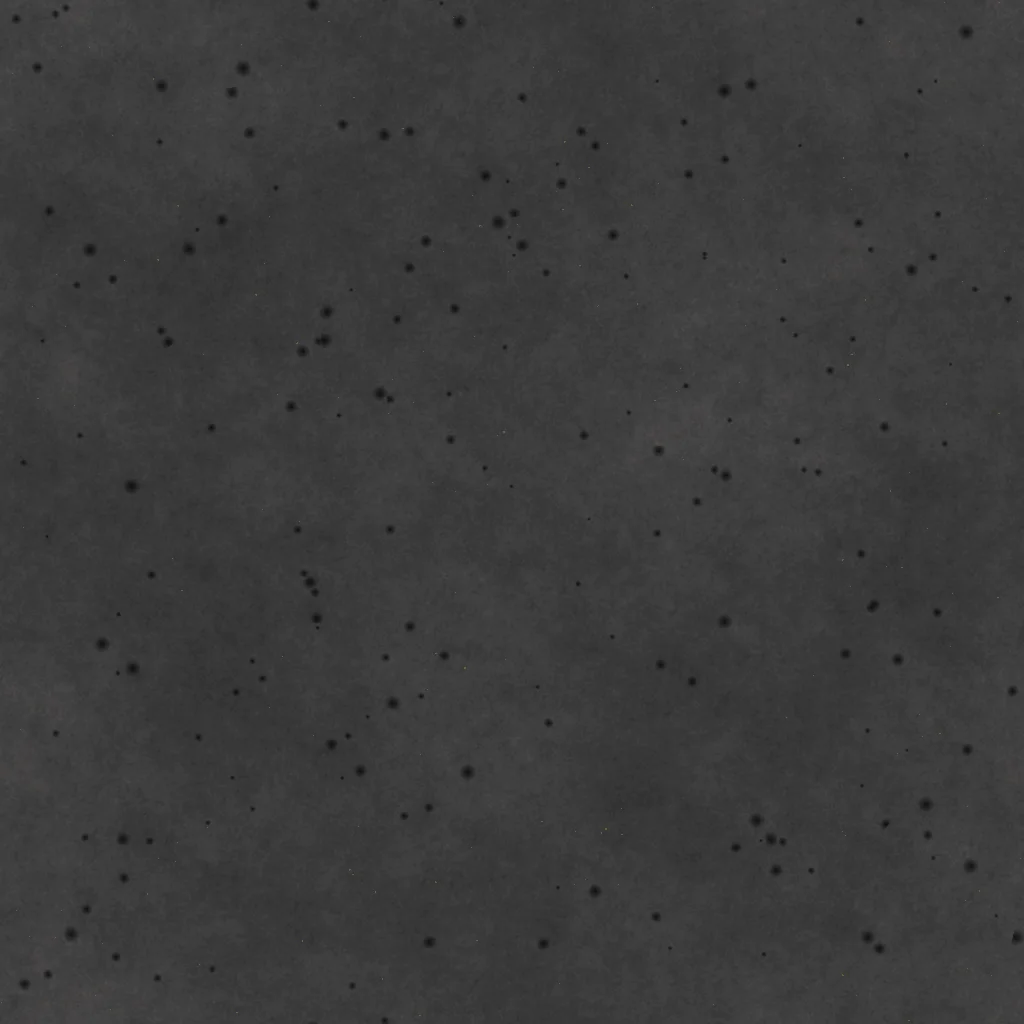
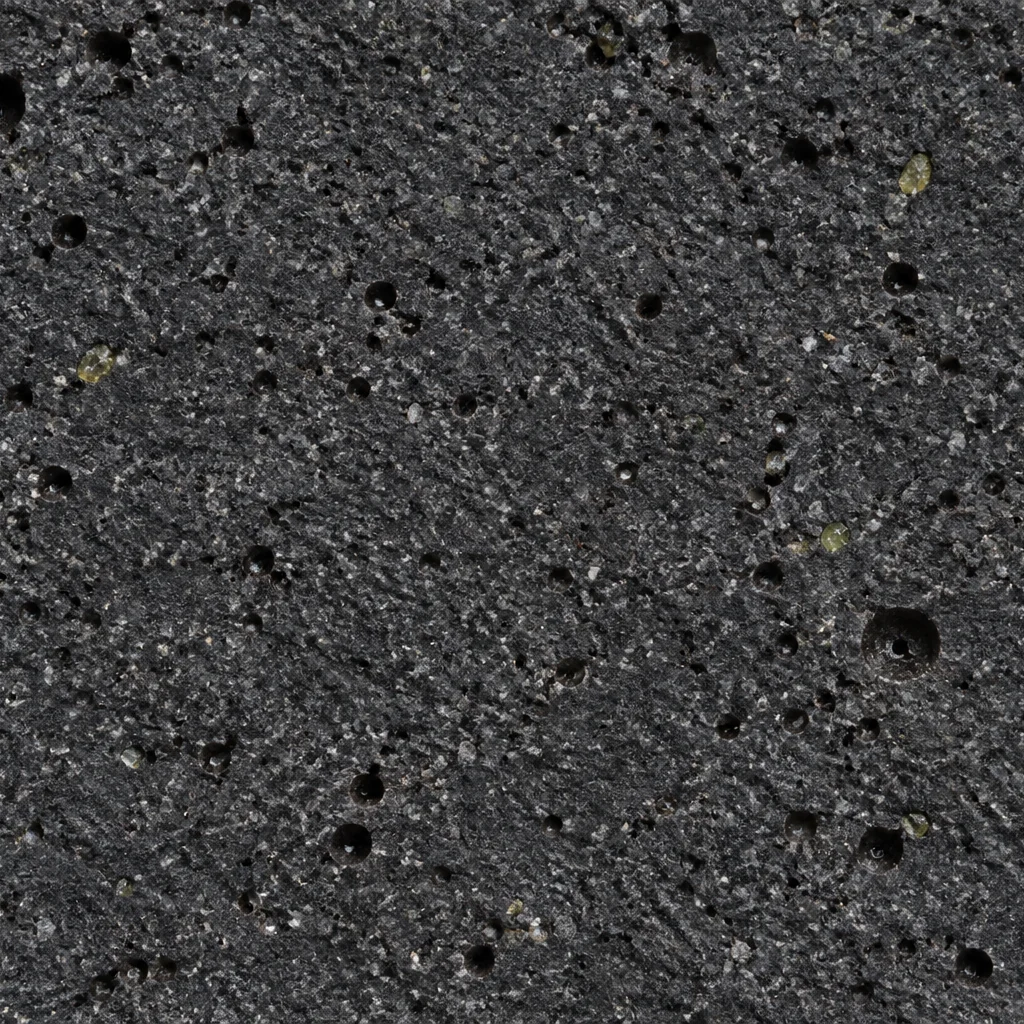
Terra v1.4.1: granito, basalto e obsidiana com texturas a partir de imagens (foto-para-textura.py: recorte, correção de luz, atenuação de reflexos, relevo)
Claude-Session: https://claude.ai/code/session_018tvpZFtV9LVsjJ7r2h5Z8G

diff --git a/apps/terra/terra-data.js b/apps/terra/terra-data.js
@@ -2,7 +2,7 @@
    Conteúdo: tema Camadas da Terra (Contexto, Explorar, Monte as camadas, Viagem ao centro, Desafio).
    Temas: Camadas da Terra, Placas tectônicas, Vulcões e Rochas e minerais. Textos no tom falado das narrações (chaves = nomes dos MP3 em audio/). */
 (function(){'use strict';
-const D={version:'1.4.0'};
+const D={version:'1.4.1'};
 D.temas=[
  {id:'camadas',nome:'Camadas da Terra',estuda:'Do que a Terra é feita por dentro.',exemplos:'Crosta, manto, núcleo externo e núcleo interno',modulo:'cam',atividades:['contexto','explorar','montar','viagem'],questoes:['liquida','kola','manto','magnetico','sismicas','interno','oceanica','temperatura']},
  {id:'placas',nome:'Placas tectônicas',estuda:'Por que a crosta se mexe, treme e se quebra.',exemplos:'Placas, limites, terremotos, vulcões e a deriva dos continentes',modulo:'pla',atividades:['placContexto','placasExp','limites','volta'],questoes:['placasMovem','andes','atlantico','sanandreas','brasil','pangeia']},
@@ -96,8 +96,8 @@ D.rocContext=[
  {name:'O ciclo das rochas',text:'E nenhuma rocha fica igual para sempre. O magma esfria e vira rocha ígnea; a chuva e o vento quebram a rocha em grãos, que se juntam e viram rocha sedimentar; o calor e a pressão transformam qualquer rocha em metamórfica; e, lá no fundo, tudo pode derreter e virar magma de novo. É o ciclo das rochas, que leva milhões de anos para dar uma volta.'}
 ];
 /* texturas das amostras (assets/rocha-<chave>.webp + -normal.webp), geradas por tools/gerar-texturas-rochas.py;
-   uma foto real com o mesmo nome substitui a textura sem mexer no código. rx/ry = repetições, relevo = força do normal map, reflexo = brilho do ambiente */
-D.ROCHAS_FOTO={granito:{roughness:.62,relevo:.9,reflexo:.55},basalto:{roughness:.85,relevo:1.1,reflexo:.3},obsidiana:{roughness:.06,relevo:.5,reflexo:1.4,metalness:.1},pomes:{roughness:1,relevo:1.4,reflexo:.15},arenito:{roughness:.95,relevo:1,reflexo:.2},calcario:{roughness:.85,relevo:1,reflexo:.3},carvao:{roughness:.4,relevo:.9,reflexo:.9},marmore:{roughness:.3,relevo:.5,reflexo:.8},ardosia:{roughness:.6,relevo:.8,reflexo:.5,rx:1.2,ry:1.2},quartzo:{roughness:.08,relevo:.4,reflexo:1.3,rx:1,ry:1},feldspato:{roughness:.42,relevo:.7,reflexo:.6,rx:1,ry:1},mica:{roughness:.18,relevo:.5,reflexo:1.2,metalness:.35,rx:1,ry:1}};
+   granito, basalto e obsidiana vêm de imagens (tools/fontes-texturas/terra) tratadas por tools/foto-para-textura.py; uma foto com o mesmo nome substitui a textura sem mexer no código. rx/ry = repetições, relevo = força do normal map, reflexo = brilho do ambiente */
+D.ROCHAS_FOTO={granito:{roughness:.62,relevo:.9,reflexo:.55},basalto:{roughness:.85,relevo:1.1,reflexo:.3},obsidiana:{roughness:.06,relevo:.6,reflexo:.9,metalness:.1},pomes:{roughness:1,relevo:1.4,reflexo:.15},arenito:{roughness:.95,relevo:1,reflexo:.2},calcario:{roughness:.85,relevo:1,reflexo:.3},carvao:{roughness:.4,relevo:.9,reflexo:.9},marmore:{roughness:.3,relevo:.5,reflexo:.8},ardosia:{roughness:.6,relevo:.8,reflexo:.5,rx:1.2,ry:1.2},quartzo:{roughness:.08,relevo:.4,reflexo:1.3,rx:1,ry:1},feldspato:{roughness:.42,relevo:.7,reflexo:.6,rx:1,ry:1},mica:{roughness:.18,relevo:.5,reflexo:1.2,metalness:.35,rx:1,ry:1}};
 D.CICLO={
  estados:{
   magma:{nome:'Magma',cor:'#ff7a20',text:'Rocha derretida, a mais de 700 graus, dentro da Terra. Daqui tudo começa.',audio:'roc-ciclo-magma'},

diff --git a/apps/terra/index.html b/apps/terra/index.html
@@ -4,13 +4,13 @@
 <meta charset="utf-8"><meta name="viewport" content="width=device-width,initial-scale=1,viewport-fit=cover">
 <meta name="theme-color" content="#08192c"><meta name="description" content="Terra por Dentro: camadas da Terra (crosta, manto, núcleo externo e interno), a Terra aberta ao meio, montagem das camadas e uma viagem em primeira pessoa até o centro do planeta. Modelos procedurais, narração em português, 3D e VR.">
 <title>Terra por Dentro · Laboratório de aprendizagem | Portal do Educador</title>
-<link rel="icon" href="assets/logo.png"><link rel="stylesheet" href="terra-lab.css?v=1.4.0"><link rel="stylesheet" href="terra-portal.css?v=1.4.0">
+<link rel="icon" href="assets/logo.png"><link rel="stylesheet" href="terra-lab.css?v=1.4.1"><link rel="stylesheet" href="terra-portal.css?v=1.4.1">
 <script defer src="vendor/three.r128.min.js"></script>
-<script defer src="terra-data.js?v=1.4.0"></script>
-<script defer src="terra-models.js?v=1.4.0"></script>
-<script defer src="terra-audio.js?v=1.4.0"></script>
-<script defer src="terra-app.js?v=1.4.0"></script>
-<script defer src="terra-portal.js?v=1.4.0"></script>
+<script defer src="terra-data.js?v=1.4.1"></script>
+<script defer src="terra-models.js?v=1.4.1"></script>
+<script defer src="terra-audio.js?v=1.4.1"></script>
+<script defer src="terra-app.js?v=1.4.1"></script>
+<script defer src="terra-portal.js?v=1.4.1"></script>
 </head>
 <body>
 <div id="lab">
@@ -63,5 +63,5 @@
 <dialog id="summaryDialog"><div class="dialog-head"><h2>Resumo da experiência</h2><button id="closeSummary" data-action="closeSummary" class="icon" aria-label="Fechar resumo">✕</button></div><div id="summaryContent"></div><details><summary>Exportar registros brutos</summary><div class="button-row"><button id="downloadJSON" data-action="downloadJSON">Exportar JSON</button><button id="downloadCSV" data-action="downloadCSV">Exportar CSV</button></div></details><p class="fine">Registros desta aba; a identificação do aluno ou grupo é opcional e fica apenas neste dispositivo. O resumo descreve ações e tentativas; não é um diagnóstico de aprendizagem.</p></dialog>
 <dialog id="sourcesDialog"><form method="dialog"><div class="dialog-head"><h2>Fontes e limites</h2><button class="icon" aria-label="Fechar fontes">✕</button></div></form><div id="sourcesContent"></div></dialog>
 <script>window.addEventListener('error',function(e){console.error('Corpo Humano:',e.message);});</script>
-<script defer src="terra-relatorio.js?v=1.4.0"></script>
+<script defer src="terra-relatorio.js?v=1.4.1"></script>
 </body></html>

diff --git a/index.html b/index.html
@@ -488,7 +488,7 @@ document.addEventListener('webkitfullscreenchange',function(){
    O app fica pré-carregado num iframe invisível (mesma origem). O clique aqui conta como gesto
    do usuário para o iframe, então a sessão WebXR abre na hora, sem segundo toque. */
 /* BUILD muda a cada publicação: força o navegador do óculos a buscar o index.html novo dos apps (o GitHub Pages ignora a query) */
-const BUILD='20261013m';
+const BUILD='20261013n';
 const appFrames={};
 /* os links dos cartões também levam a versão, para abrir direto sem cache antigo */
 document.querySelectorAll('.card-actions a[href^="apps/"]').forEach(a=>{const u=new URL(a.getAttribute('href'),location.href);u.searchParams.set('v',BUILD);a.setAttribute('href',u.pathname+u.search);});

diff --git a/apps/terra/sw.js b/apps/terra/sw.js
@@ -2,7 +2,7 @@
    Objetivo: a aplicação funcionar sem internet depois da primeira abertura (rede de escola oscila; Chromebook, lousa e Quest).
    Duas caches: a "casca" (html, css, js, three.js) muda a cada versão; a "pesada" (modelos .glb e áudios .mp3) é persistente e só
    rebaixa os arquivos cujo hash mudou no precache.json. Pedidos com Range (trilha de fundo) recebem 206 a partir do arquivo em cache. */
-const VERSAO='1.4.0-c3d8de';
+const VERSAO='1.4.1-4aa6e5';
 const CASCA='terra-casca-'+VERSAO,PESADA='terra-pesada-v1',META='terra-meta-v1';
 const ESCOPO=new URL(self.registration.scope).pathname;
 let baixando=false;

diff --git a/tools/foto-para-textura.py b/tools/foto-para-textura.py
@@ -1,0 +1,83 @@
+#!/usr/bin/env python3
+"""Transforma uma foto (ou imagem gerada) de superfície de rocha em textura da bancada.
+
+1. recorta o quadrado central e redimensiona para 1024 px;
+2. tira a luz desigual da foto (vinheta, degradê), mantendo a cor média;
+3. atenua reflexos pintados na imagem (opcional), porque o 3D já desenha o brilho;
+4. deixa a textura sem emenda (mistura com cópia deslocada, máscara irregular);
+5. gera o mapa de relevo (normal map) a partir dos detalhes claros e escuros.
+
+Uso: python3 tools/foto-para-textura.py <imagem> <chave> [--reflexos 0..1] [--relevo 3.0] [--inverter]
+Saída: apps/terra/assets/rocha-<chave>.webp e rocha-<chave>-normal.webp
+"""
+import argparse, os, sys
+import numpy as np
+from PIL import Image
+from scipy.ndimage import gaussian_filter
+
+N = 1024
+SAIDA = os.path.join(os.path.dirname(__file__), '..', 'apps', 'terra', 'assets')
+
+def ruido_periodico(n, beta, seed):
+    rng = np.random.default_rng(seed)
+    w = rng.standard_normal((n, n))
+    f = np.fft.fftfreq(n) * n
+    r = np.sqrt(f[None, :] ** 2 + f[:, None] ** 2); r[0, 0] = 1
+    o = np.real(np.fft.ifft2(np.fft.fft2(w) / r ** (beta / 2)))
+    o -= o.min(); return o / o.max()
+
+def main():
+    ap = argparse.ArgumentParser()
+    ap.add_argument('imagem'); ap.add_argument('chave')
+    ap.add_argument('--reflexos', type=float, default=0.0, help='quanto atenuar os reflexos pintados (0 a 1)')
+    ap.add_argument('--relevo', type=float, default=3.0, help='força do normal map')
+    ap.add_argument('--inverter', action='store_true', help='claro = fundo (para rochas com poros claros)')
+    ap.add_argument('--direto', action='store_true', help='não mistura para tirar a emenda (imagens com estruturas grandes, como a obsidiana; nas pedras cada face usa a imagem inteira)')
+    a = ap.parse_args()
+
+    im = Image.open(a.imagem).convert('RGB')
+    w, h = im.size; s = min(w, h)
+    im = im.crop(((w - s) // 2, (h - s) // 2, (w - s) // 2 + s, (h - s) // 2 + s)).resize((N, N), Image.LANCZOS)
+    rgb = np.asarray(im).astype(np.float32) / 255.0
+
+    # 2. luz desigual: divide pela luminância muito borrada e devolve a média
+    lum = rgb @ np.array([.299, .587, .114], np.float32)
+    baixa = gaussian_filter(lum, N / 8, mode='reflect')
+    rgb = rgb * (lum.mean() / np.maximum(baixa, 1e-3))[..., None]
+
+    # 3. reflexos pintados: comprime os tons muito claros e pouco saturados
+    if a.reflexos > 0:
+        lum = rgb @ np.array([.299, .587, .114], np.float32)
+        sat = rgb.max(-1) - rgb.min(-1)
+        limiar = np.percentile(lum, 70)
+        alvo = limiar + (lum - limiar) * (1 - a.reflexos)
+        m = (lum > limiar) & (sat < .25)
+        fator = np.where(m, alvo / np.maximum(lum, 1e-3), 1.0)
+        rgb = rgb * fator[..., None]
+    rgb = np.clip(rgb, 0, 1)
+
+    # 4. sem emenda: B = A deslocada pela metade (bordas já casam); no centro usa A (contínua ali)
+    B = np.roll(np.roll(rgb, N // 2, 0), N // 2, 1)
+    yy, xx = np.mgrid[0:N, 0:N].astype(np.float32)
+    d = np.maximum(np.abs(xx - N / 2), np.abs(yy - N / 2)) / (N / 2)  # 0 no centro, 1 nas bordas
+    d = d + (ruido_periodico(N, 2.6, 7) - .5) * .35                  # fronteira irregular, menos "costura"
+    wB = np.clip((d - .55) / .2, 0, 1)
+    wB = wB * wB * (3 - 2 * wB)
+    out = rgb if a.direto else rgb * (1 - wB[..., None]) + B * wB[..., None]
+
+    # 5. relevo: detalhes de média e alta frequência da luminância
+    lum = out @ np.array([.299, .587, .114], np.float32)
+    alt = lum - gaussian_filter(lum, 12, mode='wrap')
+    alt = gaussian_filter(alt, .8, mode='wrap')
+    if a.inverter: alt = -alt
+    gx = (np.roll(alt, -1, 1) - np.roll(alt, 1, 1)) * a.relevo
+    gy = (np.roll(alt, -1, 0) - np.roll(alt, 1, 0)) * a.relevo
+    nrm = np.stack([-gx, gy, np.ones_like(alt)], -1)
+    nrm /= np.linalg.norm(nrm, axis=-1, keepdims=True)
+
+    Image.fromarray((np.clip(out, 0, 1) * 255 + .5).astype(np.uint8)).save(os.path.join(SAIDA, f'rocha-{a.chave}.webp'), quality=86, method=6)
+    Image.fromarray(((nrm * .5 + .5) * 255 + .5).astype(np.uint8)).save(os.path.join(SAIDA, f'rocha-{a.chave}-normal.webp'), quality=88, method=6)
+    print(a.chave, 'ok')
+
+if __name__ == '__main__':
+    main()
